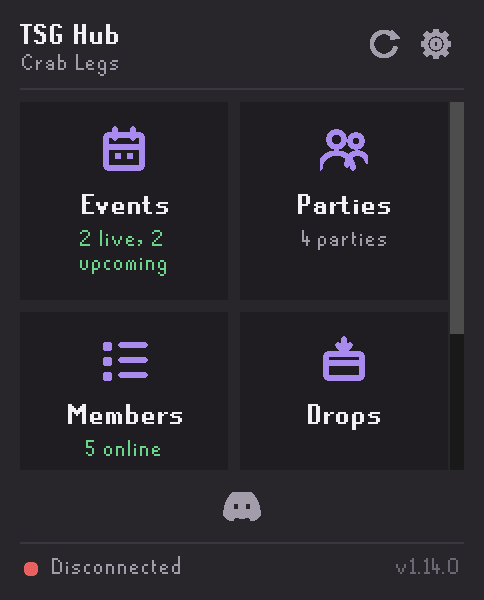
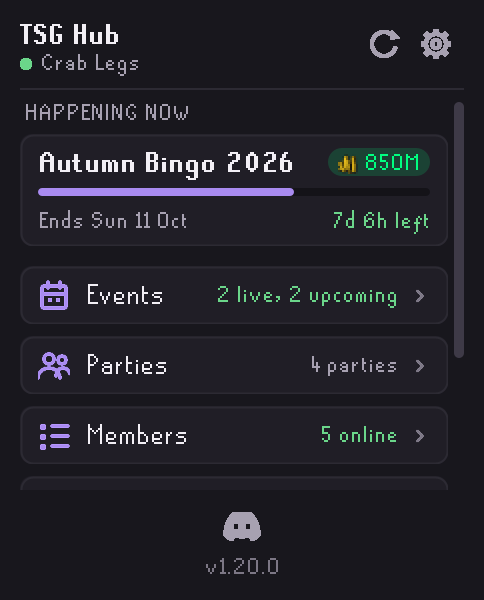
docs: refresh readme and screenshots

diff --git a/README.md b/README.md
@@ -21,7 +21,7 @@ Join a bingo team, climb the Skill of the Week leaderboard, find a raid party, a
 3. Click **Enable sharing**. Nothing is sent until you do.
 4. Pick an event. For bingo, enter the team code an admin gave you, or [sign up](#sign-up-without-a-team) if the bingo takes sign-ups. Your team is fixed once you join.
 
-<table align="center"><tr><td align="center" valign="top"><img src="docs/images/home.png" width="260" alt="TSG Hub home with Events, Parties, Members and Drops tiles"><br><sub>Home</sub></td><td align="center" valign="top"><img src="docs/images/events.png" width="260" alt="Live and upcoming events"><br><sub>Events</sub></td></tr></table>
+<table align="center"><tr><td align="center" valign="top"><img src="docs/images/home.png" width="260" alt="TSG Hub home with the live event card and a row for each section"><br><sub>Home</sub></td><td align="center" valign="top"><img src="docs/images/events.png" width="260" alt="Live and upcoming events"><br><sub>Events</sub></td></tr></table>
 
 **Disconnect from event** on the **Team** tab stops tracking on this device. Your team keeps its progress, and you can rejoin with the same code.
 
@@ -37,7 +37,7 @@ Join a bingo team, climb the Skill of the Week leaderboard, find a raid party, a
 | 👥 **[Members](#members)** | Which clanmates are online, their world, area and what they're doing |
 | 💎 **[Drops](#drops)** | The clan's big drops, raid loot, pets and collection log items, so you can catch up |
 | 🏅 **[Records](#records)** | The clan's top kill counts and fastest PBs for every boss and raid, plus clue scroll counts |
-| 📰 **[News](#news)** | Announcements from the admins, in the sidebar and your chatbox |
+| 📰 **[News](#news)** | Announcements from the admins, in the sidebar, your chatbox and on screen |
 | 📌 **[Split view](#split-view)** | Pin Members, Parties or Drops below the main view |
 | 🔗 **[Discord linking](#link-your-discord)** | Link your RuneScape account to the clan Discord |
 | 🛠 **[Admin tools](#for-admins)** | One click to the admin site, plus member notes and warnings in the sidebar |
@@ -126,7 +126,7 @@ The leader can click **Start loot split** to share the party's raid purples. Whi
 
 ## Members
 
-The **Members** section lists clanmates who are in clan chat with sharing on. Each row shows their world, area and what they're doing, such as `Mining · Motherlode Mine`, `Vorkath` or `Chambers of Xeric`. Clanmates on your world have their world shown in green.
+The **Members** section lists clanmates who are in clan chat with sharing on. Each row shows their world, area and what they're doing, such as `Mining · Motherlode Mine`, `Vorkath` or `Chambers of Xeric`. Clanmates on your world have their world shown in green. The list is grouped by what people are doing: **Bossing** (bosses, raids and minigames), **Skilling** and **Elsewhere**.
 
 Activity is detected automatically from where you are and the XP you gain.
 
@@ -169,7 +169,9 @@ Kill and clue counts come from the official hiscores. The TSG Hub service looks 
 
 ## News
 
-The **News** section lists announcements from the clan admins, pinned ones first. A pin marks pinned posts, a green dot marks ones you haven't read, and the **News** tile on the home screen shows how many are new. Each new announcement appears in your chatbox once, when you log in or when it's posted. Links in an announcement show the full address and ask before opening in your browser. Turn that off with **Clan announcements** under **Chat** in the plugin settings.
+The **News** section lists announcements from the clan admins, pinned ones first. A pin marks pinned posts, a green dot marks ones you haven't read, and the **News** row on the home screen shows how many are new. Each new announcement appears in your chatbox once, when you log in or when it's posted. Links in an announcement show the full address and ask before opening in your browser. Turn that off with **Clan announcements** under **Chat** in the plugin settings.
+
+New announcements from the last 3 days also show as a small card at the top of the game view, with the title, who posted it and when. **Dismiss** marks it read; **Read more** opens it. Clicking a post in **News** opens it in the middle of the game view, with its formatting, images and polls: scroll with the mouse wheel, click links or vote right there, and click **✕** to close it. The title stays put while you scroll. Turn the card and the in-game reader off with **Announcements on screen** under **Chat**; posts then open in a separate window.
 
 ## Split view
 
